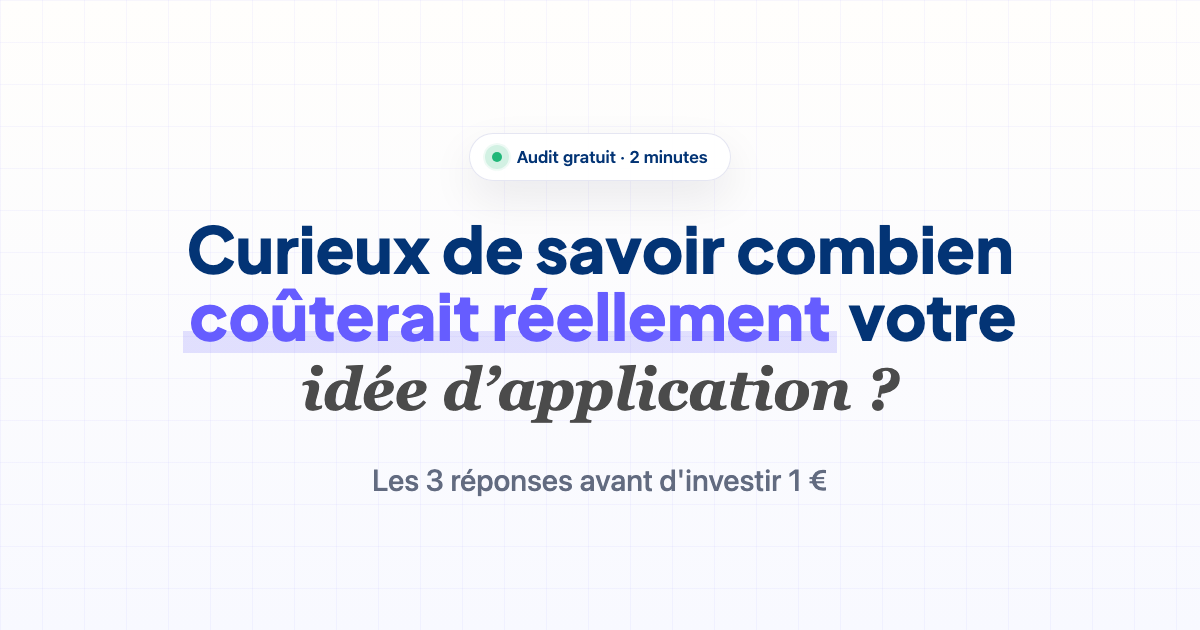
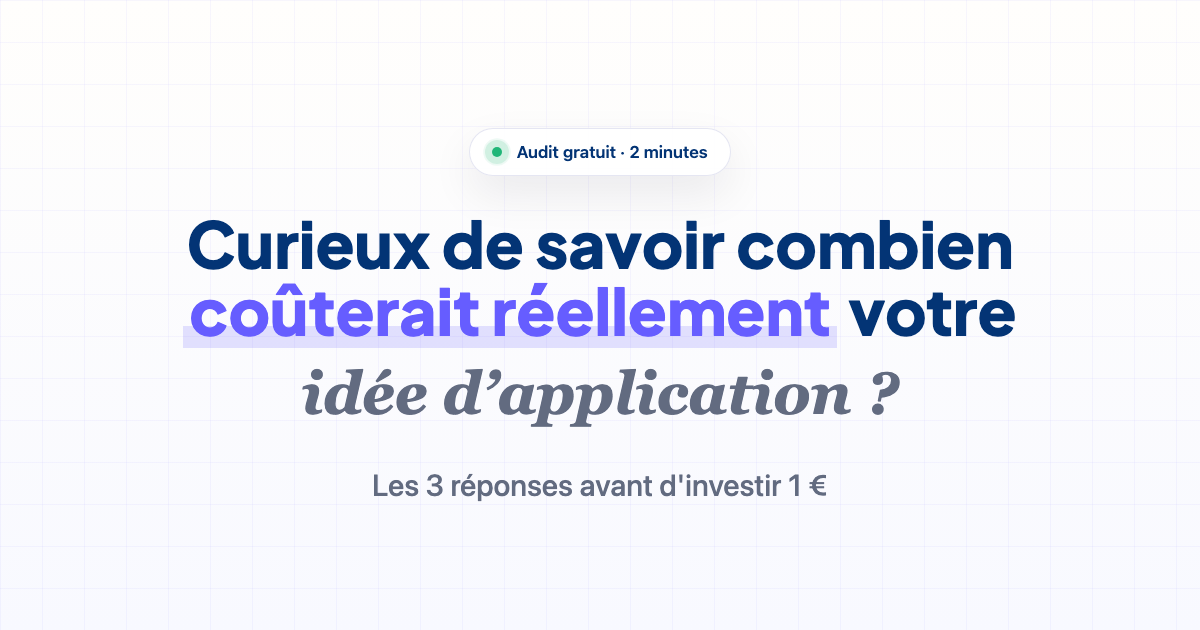
audit: og idee en gris + CTA WhatsApp + prix cale sur budget

Changed region(s): [[0.1542, 0.3317, 0.8633, 0.6937], [0.3083, 0.754, 0.7092, 0.7841], [0.4008, 0.2111, 0.5858, 0.2714]]

diff --git a/public/audit-app-og.html b/public/audit-app-og.html
@@ -173,8 +173,8 @@
 
       .idea-serif {
         display: block;
-        margin-top: 7px;
-        color: #4b4b4b;
+        margin-top: 16px;
+        color: var(--muted);
         font-family: "Libre Baskerville", Georgia, "Times New Roman", serif;
         font-size: 0.92em;
         font-style: italic;
